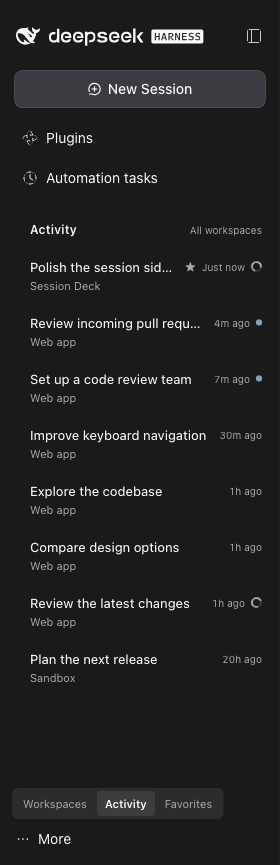
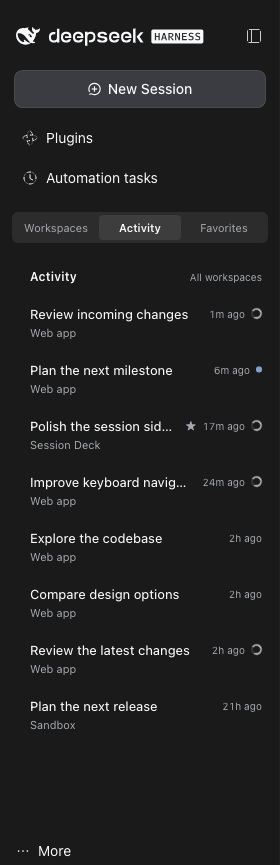
fix: place session navigation above workspaces without host patches

diff --git a/lib/client.js b/lib/client.js
@@ -2,7 +2,8 @@
 window.__ModuleLoader__.load({
   id: '@yiliang114/dsh-session-deck',
   factory: (require) => {
-    const { createElement: h, useEffect, useState, useSyncExternalStore } = require('react')
+    const { createElement: h, Fragment, useEffect, useLayoutEffect, useState, useSyncExternalStore } = require('react')
+    const { createPortal } = require('react-dom')
     const { Menu, MenuItemButton, Modal, Button, writeClipboard, IconEllipsisOutlineRegular, IconArchiveOutlineRegular } = require('@deepseek-ai/dsh-client-ui-primitives')
     const KEY = 'dsh-session-activity.mode.v1'
     const PENDING_KEY = 'dsh-session-activity.pending.v1'
@@ -137,6 +138,40 @@ window.__ModuleLoader__.load({
       if (minutes < 1440) return `${Math.floor(minutes / 60)}h ago`
       return `${Math.floor(minutes / 1440)}d ago`
     }
+    // Compatibility adapter for DSH 0.2.1-rc.2, NOT an official public slot.
+    // Only our container is inserted/removed; native and React-owned nodes stay put.
+    // Capture the anchor's own sidebar, never a document-wide first match.
+    function mountNavigationHost(anchor, onHost) {
+      const root = anchor?.closest('.hHd-Xa_root')
+      const shape = () => {
+        if (!root || anchor.closest('.hHd-Xa_root') !== root) return null
+        const children = [...root.children]
+        const regions = children.filter(node => node.classList.contains('hHd-Xa_regionArea'))
+        const footers = children.filter(node => node.classList.contains('hHd-Xa_footArea'))
+        return regions.length === 1 && footers.length === 1 && footers[0].contains(anchor) &&
+          children.indexOf(regions[0]) < children.indexOf(footers[0]) ? regions[0] : null
+      }
+      const Observer = anchor?.ownerDocument.defaultView?.MutationObserver
+      if (!shape() || !Observer) { onHost(null); return () => {} }
+      const host = anchor.ownerDocument.createElement('div')
+      host.className = 'dsa-navigation-host'
+      let active = true, published
+      const sync = () => {
+        if (!active) return
+        const region = shape()
+        if (region) {
+          if (host.parentNode !== root || host.nextSibling !== region) root.insertBefore(host, region)
+        } else host.remove()
+        const next = region ? host : null
+        if (published !== next) { published = next; onHost(next) }
+      }
+      // No subtree/body observation: portal rendering cannot trigger this observer.
+      // The adjacency guard makes our own insertion notification a no-op.
+      const observer = new Observer(sync)
+      observer.observe(root, { childList: true })
+      sync()
+      return () => { active = false; observer.disconnect(); host.remove() }
+    }
     const labels = { running: 'Running', waiting: 'Waiting for reply', pending: 'Unread', recent: 'Recent sessions' }
     const css = `
 .dsa-root{display:flex;flex-direction:column;flex:1;min-height:0;overflow:hidden;color:var(--dsw-alias-label-primary,inherit)}
@@ -167,8 +202,11 @@ window.__ModuleLoader__.load({
 .dsa-menu-trigger:hover{background:var(--dsw-alias-interactive-bg-hover,#8883);color:var(--dsw-alias-label-primary,inherit)}
 .dsa-menu-trigger:disabled{cursor:wait}
 .dsa-row:focus-visible,.dsa-menu-trigger:focus-visible,.dsa-switch button:focus-visible{outline:2px solid var(--dsw-alias-label-secondary,#aaa);outline-offset:-2px}
-.dsa-switch{display:flex;gap:2px;padding:3px;border-radius:8px;background:var(--dsw-alias-interactive-bg-hover,#8881);flex-shrink:0}
-.dsa-switch button{flex:1;border:0;border-radius:5px;padding:6px 8px;background:transparent;color:var(--dsw-alias-label-tertiary,#888);font:inherit;font-size:11px;cursor:pointer;white-space:nowrap}
+.dsa-navigation-host{flex-shrink:0;padding:8px 0}
+.dsa-switch{display:flex;gap:2px;padding:3px;border-radius:8px;background:var(--dsw-alias-interactive-bg-hover,#8881);flex-shrink:0;min-width:0}
+.dsa-switch button{flex:1;min-width:0;overflow:hidden;text-overflow:ellipsis;border:0;border-radius:5px;padding:6px 6px;background:transparent;color:var(--dsw-alias-label-tertiary,#888);font:inherit;font-size:11px;cursor:pointer;white-space:nowrap}
+.dsa-switch[data-compact=true]{flex-direction:column}
+.dsa-switch[data-compact=true] button{padding:6px 0}
 .dsa-switch button[aria-pressed=true]{background:var(--dsw-alias-interactive-bg-hover,#8882);color:var(--dsw-alias-label-primary,inherit);font-weight:600}
 .dsa-empty{margin:22px 12px;font-size:12px;line-height:1.8;color:var(--dsw-alias-label-tertiary,#888)}
 .dsa-rename{box-sizing:border-box;width:100%;font:inherit;padding:8px;border-radius:6px;border:1px solid var(--dsw-alias-label-tertiary,#777);background:transparent;color:inherit}
@@ -184,17 +222,29 @@ window.__ModuleLoader__.load({
       const style = document.createElement('style')
       style.id = 'yiliang114-dsh-session-deck-style'
       style.textContent = css
-      document.getElementById(style.id)?.remove()
-      document.head.appendChild(style)
       const onStorage = event => { if (event.key === PENDING_KEY) pending.sync(); if (event.key === KEY || event.key === null) { let value; try { value = storage?.getItem(KEY) } catch {} mode.set(value, false) } }
-      window.addEventListener('storage', onStorage)
-      ctx.on('dispose', () => { style.remove(); window.removeEventListener('storage', onStorage) })
+      ctx.effect(() => {
+        document.getElementById(style.id)?.remove()
+        document.head.appendChild(style)
+        window.addEventListener('storage', onStorage)
+        return () => { style.remove(); window.removeEventListener('storage', onStorage) }
+      })
       function Switch({ wide, useSessions, useSessionStatus }) {
         const list = useSessions(identity), statuses = useSessionStatus(identity)
         useEffect(() => pending.observe(list, statuses), [list, statuses])
         const selected = useSyncExternalStore(mode.subscribe, mode.getSnapshot)
-        return h('div', { className: 'dsa-switch', role: 'group', 'aria-label': 'Session navigation view', style: wide ? undefined : { flexDirection: 'column' } },
-          ...[['workspace', 'Workspaces'], ['activity', 'Activity'], ['favorites', 'Favorites']].map(([value, label]) => h('button', { key: value, type: 'button', 'aria-pressed': selected === value, onClick: () => mode.set(value) }, label)))
+        return h('div', { className: 'dsa-switch', role: 'group', 'aria-label': 'Session navigation view', 'data-compact': !wide },
+          ...[['workspace', 'Workspaces', 'W'], ['activity', 'Activity', 'A'], ['favorites', 'Favorites', '★']].map(([value, label, compact]) => h('button', { key: value, type: 'button', title: label, 'aria-label': label, 'aria-pressed': selected === value, onClick: () => mode.set(value) }, wide ? label : compact)))
+      }
+      function FooterNavigation(props) {
+        const [anchor, setAnchor] = useState(null)
+        const [host, setHost] = useState(null)
+        useLayoutEffect(() => mountNavigationHost(anchor, setHost), [anchor])
+        // The hidden callback ref stays in the registered footer's React tree.
+        // A portal retains slot/React context and all injected props. Unknown DOM
+        // shapes render inline in that footer instead of guessing a destination.
+        return h(Fragment, null, h('span', { hidden: true, ref: setAnchor }),
+          host ? createPortal(h(Switch, props), host) : h(Switch, props))
       }
       function Activity({ wide, expandSidebar, useSessions, useSessionStatus, useWorkspaces }) {
         const list = useSessions(identity)
@@ -300,7 +350,7 @@ window.__ModuleLoader__.load({
           unregister = ctx.slots.register({ name, id: '@yiliang114/dsh-session-deck.switch', order: 0, label: 'Session view' },
             name === 'sidebar.workspaces.before' ? function NavigationSwitch(props) {
               return h('div', { style: { flexShrink: 0, padding: props.wide ? '8px 12px' : '8px 4px' } }, h(Switch, props))
-            } : Switch)
+            } : FooterNavigation)
         }
         sync()
         const unsubscribe = ctx.slots.subscribe('sidebar.workspaces.before', sync)
@@ -317,6 +367,6 @@ window.__ModuleLoader__.load({
         return () => { unsubscribe(); unregister?.() }
       })
     }
-    return { inject: ['slots', 'uiWorkspace', 'sessions'], apply, __test__: { selectActivity, createModeStore, createPendingStore, ago, KEY, PENDING_KEY, MAX_RECORDS } }
+    return { inject: ['slots', 'uiWorkspace', 'sessions'], apply, __test__: { mountNavigationHost, selectActivity, createModeStore, createPendingStore, ago, KEY, PENDING_KEY, MAX_RECORDS } }
   },
 })

diff --git a/README.md b/README.md
@@ -23,7 +23,7 @@ Switching views keeps your current conversation open. Session rows show the titl
 | Follow active work and unread results. | Return to native pinned sessions. | Keep the complete workspace controls. |
 | ![English Activity view](docs/images/activity.png) | ![English Favorites view](docs/images/favorites.png) | ![English native Workspaces view](docs/images/workspaces.png) |
 
-Screenshots show the unmodified DSH sidebar, with the view switcher at the bottom. Browser menus, tabs, and the address bar are excluded.
+Screenshots show the switcher above the workspace region without host patches, below global panels. The interface and anonymized session titles are English; browser menus, tabs, and the address bar are excluded.
 
 ## Install locally
 
@@ -48,7 +48,7 @@ You can also install through **Plugins → Add plugin → Install a third-party 
 
 The plugin's own labels are English. To make the rest of DSH English too, use **More → Settings → General → Language → English**. Session titles remain in the language you wrote them.
 
-Refresh your existing DSH GUI, then choose **Workspaces / Activity / Favorites** in the sidebar. On an unmodified DSH installation, the switcher appears at the bottom; the [optional sidebar patch](#optional-place-the-switcher-above-the-list) moves it above the list. Refresh after client changes too; hot reload is not assumed.
+Refresh your existing DSH GUI, then choose **Workspaces / Activity / Favorites** above the workspace region, below global panels. On the supported DSH 0.2.1-rc.2 layout, the plugin places the switcher there automatically without patching installed DSH files. The native workspace browser remains available in Workspaces. Refresh after client changes too; hot reload is not assumed.
 
 If you installed an earlier local version of this plugin, disable and remove it in DSH's plugin manager first to avoid two instances controlling the sidebar. You can keep its browser storage.
 
@@ -67,7 +67,7 @@ Copy the generated archive to the target machine, then install using its absolut
 dsh plugin --profile web add /absolute/path/yiliang114-dsh-session-deck-0.1.0.tgz --ignore-scripts
 ```
 
-Refresh the GUI. A tarball installation does not depend on the original checkout and does not apply the optional host patch automatically.
+Refresh the GUI. A tarball installation does not depend on the original checkout. Both linked and tarball installations place the switcher above the workspace region automatically on the supported rc.2 layout; neither needs a host patch.
 
 ### Future npm and market availability
 
@@ -98,36 +98,29 @@ Maintainers: see the [release guide](https://github.com/yiliang114/dsh-session-d
 
 ## DSH compatibility and switcher position
 
-Version compatibility and switcher placement are separate checks. This plugin declares an exact `engines.dsh` match of **0.2.1-rc.2**; a bottom-position switcher on that version does not indicate an outdated plugin or a version mismatch.
+This plugin declares an exact `engines.dsh` match of **0.2.1-rc.2**. Automatic top placement uses a DOM compatibility adapter for that release, not an official DSH extension API.
 
-| DSH sidebar | `sidebar.workspaces.before` | Session Deck support |
+| DSH sidebar | Placement mechanism | Session Deck support |
 | --- | --- | --- |
-| Official **0.2.1-rc.2** | Absent; the switcher falls back to the footer. | Verified in the real GUI. |
-| **0.2.1-rc.2** with the local patch below | Added after global panels, including Automation tasks. | Accepted by the version-checked patch script. |
-| Official **0.2.1-rc.3** | Still absent in its published client and slot contract. | Full plugin compatibility is unverified; excluded by the current engine declaration. |
+| Official **0.2.1-rc.2**, without patches | No official `sidebar.workspaces.before` slot; the adapter places the switcher above the workspace region by default. | Supported target, with a precise rc.2 DOM structure guard. |
+| **0.2.1-rc.2** with the legacy local patch | Reuses the existing `sidebar.workspaces.before` slot below global panels. | Compatible; the patch is no longer needed. |
+| Official **0.2.1-rc.3** | The published client and slot contract still lack the before-slot. | Not supported: full compatibility is unverified and the exact engine declaration excludes it. |
 
-The rc.3 published files were inspected on **2026-10-23**. Upgrading to rc.3 alone does not provide the missing slot. The patch is a local modification to DSH, not an official update or a step automatically performed by plugin installation. Supporting another host version requires validating its session, workspace, slot, and UI APIs before widening `engines.dsh` or the patch script's version guard.
+On the recognized rc.2 layout, the adapter renders a React portal into its own DOM host immediately before the workspace region, below global panels such as Automation tasks. It does not write installed DSH files or replace the native workspace browser. An unknown DOM layout falls back to the footer. Disabling the plugin removes its scoped observer and DOM host.
 
-## Optional: place the switcher above the list
+The rc.3 published files were inspected on **2026-10-23**; that inspection does not establish plugin compatibility. Supporting another host version requires validating its session, workspace, slot, and UI APIs and DOM layout before widening `engines.dsh`.
 
-DSH 0.2.1-rc.2 does not expose an official slot at this position. The [sidebar patch script](scripts/patch-sidebar-before.mjs) adds a local `sidebar.workspaces.before` slot after the global panel entries and before the workspace area. **The plugin works without this patch**, using the bottom position as its fallback.
+## Legacy sidebar patch rollback
+
+The [sidebar patch script](scripts/patch-sidebar-before.mjs) is retained for rollback and backward compatibility. New installations do not need it. If you previously installed its local before-slot patch, the plugin can reuse that slot, or you can restore the original sidebar.
 
 Locate the `@deepseek-ai/dsh-client-ui-sidebar` package actually used by your running DSH. From this repository, replace the placeholder with that package's directory, not the DSH root or this plugin directory:
-
-```sh
-node scripts/patch-sidebar-before.mjs /path/to/dsh-client-ui-sidebar
-node --check /path/to/dsh-client-ui-sidebar/lib/client.js
-```
-
-The script accepts only **0.2.1-rc.2**, checks both target files before writing, and saves adjacent `.dsa-before.backup` files. It is safe to rerun and rejects unexpected code. Refresh the GUI after applying it.
-
-To restore the original sidebar:
 
 ```sh
 node scripts/patch-sidebar-before.mjs /path/to/dsh-client-ui-sidebar --rollback
 ```
 
-Rollback needs the original backups and refuses to overwrite unrelated changes. Refresh again to return to the bottom position. DSH reinstalls or upgrades may replace the patch; check compatibility before reapplying it. If you modify a DSH source checkout, rebuild the affected client artifacts as well.
+Rollback requires the original adjacent `.dsa-before.backup` files and refuses to overwrite unrelated changes. Refresh the GUI after rollback: the new plugin still places the switcher above the workspace region on the supported unpatched rc.2 layout. If rolling back a DSH source checkout, rebuild the affected client artifacts as well.
 
 ## Privacy and local storage
 
@@ -142,7 +135,7 @@ Browser `localStorage` retains the original keys for compatibility:
 
 No conversation bodies are stored by the plugin. Favorites remain in DSH's native pinned data. View and unread state sync between tabs on the same origin, not across devices. If storage is unavailable, state stays in memory. Clearing browser storage resets this metadata; processed records are capped at 1,000, while running and unread records are retained.
 
-Disable or remove **`@yiliang114/dsh-session-deck`** in DSH's plugin manager to stop using it. Removal does not clear browser storage or undo the optional host patch; use the rollback command separately.
+Disable or remove **`@yiliang114/dsh-session-deck`** in DSH's plugin manager to stop using it. Disabling removes the adapter's observer and DOM host and restores the native workspace browser. Removal does not clear browser storage or undo a legacy host patch; use the rollback command separately if needed.
 
 ## Development
 

diff --git a/README.zh-CN.md b/README.zh-CN.md
@@ -23,7 +23,7 @@
 | 掌握运行状态和未读结果。 | 回到原生置顶的重要会话。 | 保留完整的工作区操作。 |
 | ![英文 Activity 视图](docs/images/activity.png) | ![英文 Favorites 视图](docs/images/favorites.png) | ![英文原生 Workspaces 视图](docs/images/workspaces.png) |
 
-截图使用未打补丁的 DSH 侧栏，视图切换条位于底部；不包含浏览器顶部菜单、标签栏和地址栏。
+截图展示无需宿主补丁、自动位于全局面板下方和工作区区域上方的切换条。界面及匿名化后的会话标题使用英文；不包含浏览器顶部菜单、标签栏和地址栏。
 
 ## 本地安装
 
@@ -48,7 +48,7 @@ dsh plugin --profile web add "link:$PWD" --offline --ignore-scripts
 
 插件自身文案使用英文。要让 DSH 其他界面也显示英文，在 **更多 → 设置 → 通用设置 → 语言** 中选择 **English**。会话标题仍保留用户原来使用的语言。
 
-刷新现有 DSH GUI，然后在侧栏选择 **Workspaces / Activity / Favorites**。原版 DSH 的切换条位于底部；[可选侧栏补丁](#可选将切换条放到列表上方)可将它移到列表上方。修改客户端后也需要刷新，不应假定热更新已启用。
+刷新现有 DSH GUI，然后在全局面板下方、工作区区域上方选择 **Workspaces / Activity / Favorites**。在支持的 DSH 0.2.1-rc.2 布局中，插件会自动将切换条放到该位置，无需修改已安装的 DSH 文件。Workspaces 保留原生工作区浏览器。修改客户端后也需要刷新，不应假定热更新已启用。
 
 如果已安装本插件的早期本地版本，请先在 DSH 插件管理中停用并移除旧实例，避免同时接管侧栏；浏览器存储可以保留。
 
@@ -67,7 +67,7 @@ npm pack --ignore-scripts
 dsh plugin --profile web add /absolute/path/yiliang114-dsh-session-deck-0.1.0.tgz --ignore-scripts
 ```
 
-安装后刷新 GUI。tarball 安装不依赖原仓库目录持续存在，也不会自动应用宿主补丁。
+安装后刷新 GUI。tarball 安装不依赖原仓库目录持续存在。链接和 tarball 两种安装方式都会在支持的 rc.2 布局中自动将切换条放到工作区区域上方，无需宿主补丁。
 
 ### 后续 npm 安装与市场发现
 
@@ -98,36 +98,29 @@ https://raw.githubusercontent.com/yiliang114/dsh-session-deck/main/market-index.
 
 ## DSH 兼容性与切换条位置
 
-版本匹配和切换条位置是两个独立检查项。插件的 `engines.dsh` 精确声明支持 **0.2.1-rc.2**；这个版本上切换条位于底部，不表示插件过旧或版本不匹配。
+插件的 `engines.dsh` 精确声明支持 **0.2.1-rc.2**。自动顶部定位使用针对该版本的 DOM 兼容适配层，并非 DSH 官方扩展 API。
 
-| DSH 侧栏 | `sidebar.workspaces.before` | Session Deck 支持情况 |
+| DSH 侧栏 | 定位方式 | Session Deck 支持情况 |
 | --- | --- | --- |
-| 官方 **0.2.1-rc.2** | 不存在，切换条回退到底部。 | 已在真实 GUI 验证。 |
-| **0.2.1-rc.2** 加下述本地补丁 | 增加在全局面板入口（包括 Automation tasks）下方。 | 补丁脚本接受此版本并检查目标代码。 |
-| 官方 **0.2.1-rc.3** | 已发布的客户端及槽位声明中仍不存在。 | 插件整体兼容性尚未验证，当前版本声明不包含它。 |
+| 官方 **0.2.1-rc.2**，未打补丁 | 没有官方 `sidebar.workspaces.before` 槽位；适配层默认将切换条放到工作区区域上方。 | 当前支持目标，严格检查 rc.2 DOM 结构。 |
+| **0.2.1-rc.2** 加旧版本地补丁 | 复用全局面板下方已有的 `sidebar.workspaces.before` 槽位。 | 兼容，但已不再需要补丁。 |
+| 官方 **0.2.1-rc.3** | 已发布的客户端及槽位声明中仍没有 before 槽位。 | 不支持：整体兼容性未经验证，精确版本声明不包含它。 |
 
-以上 rc.3 发布文件检查于 **2026-10-23**。仅升级到 rc.3 不会补上这个槽位。补丁修改的是本地 DSH，并非官方更新，也不会随插件安装自动执行。支持其他宿主版本时，需要先验证会话、工作区、槽位和 UI 接口，再扩大 `engines.dsh` 或补丁脚本允许的版本范围。
+识别到 rc.2 布局时，适配层在工作区区域紧前方、Automation tasks 等全局面板下方插入自己的 DOM 容器，通过 React portal 渲染切换条。它不会写入已安装的 DSH 文件，也不会替换原生工作区浏览器。遇到未知 DOM 布局时回退到底部。停用插件会移除其限定范围的观察器和 DOM 容器。
 
-## 可选：将切换条放到列表上方
+rc.3 发布文件检查于 **2026-10-23**，该检查不能证明插件兼容。支持其他宿主版本时，需要先验证会话、工作区、槽位、UI 接口及 DOM 布局，再扩大 `engines.dsh` 的版本范围。
 
-DSH 0.2.1-rc.2 尚未在此处提供官方扩展槽位。[侧栏补丁脚本](scripts/patch-sidebar-before.mjs)会在全局面板入口之后、工作区区域之前增加本地 `sidebar.workspaces.before` 槽位。**不打补丁也可正常使用插件**，切换条自动回退到底部。
+## 旧版侧栏补丁回滚
+
+[侧栏补丁脚本](scripts/patch-sidebar-before.mjs)保留用于回滚和向后兼容，新安装无需执行。如果之前安装过本地 before 槽位补丁，插件可以继续复用该槽位，也可以恢复原侧栏。
 
 找到当前运行的 DSH 实际加载的 `@deepseek-ai/dsh-client-ui-sidebar` 包目录，在本仓库中执行以下命令。占位路径应替换为该侧栏包目录，而非 DSH 根目录或本插件目录：
-
-```sh
-node scripts/patch-sidebar-before.mjs /path/to/dsh-client-ui-sidebar
-node --check /path/to/dsh-client-ui-sidebar/lib/client.js
-```
-
-脚本仅接受 **0.2.1-rc.2**，写入前检查两个目标文件，并保存相邻的 `.dsa-before.backup` 备份。支持重复执行，遇到不匹配的代码会拒绝修改。应用后刷新 GUI。
-
-恢复原侧栏：
 
 ```sh
 node scripts/patch-sidebar-before.mjs /path/to/dsh-client-ui-sidebar --rollback
 ```
 
-恢复依赖原始备份，并会拒绝覆盖无关改动。刷新后切换条回到底部。DSH 重装或升级可能覆盖补丁，重新应用前请检查兼容性。如果修改的是 DSH 源码仓库，还需重新构建相关客户端产物。
+恢复依赖原始的相邻 `.dsa-before.backup` 备份，并会拒绝覆盖无关改动。回滚后刷新 GUI：在支持的未打补丁 rc.2 布局中，新插件仍会将切换条放到工作区区域上方。如果回滚的是 DSH 源码仓库，还需重新构建相关客户端产物。
 
 ## 隐私与本地存储
 
@@ -142,7 +135,7 @@ node scripts/patch-sidebar-before.mjs /path/to/dsh-client-ui-sidebar --rollback
 
 插件不在其中保存会话正文。收藏仍使用 DSH 原生置顶数据。视图和未读状态在同源标签页间同步，不跨设备同步；存储不可用时仅保留在内存中。清除浏览器存储会重置这些元数据。已处理记录最多保留 1,000 条，运行中和未读记录不受此清理上限影响。
 
-停用时，在 DSH 插件管理中禁用或移除 **`@yiliang114/dsh-session-deck`**。移除不会清除浏览器存储，也不会撤销宿主补丁，后者请单独执行恢复命令。
+停用时，在 DSH 插件管理中禁用或移除 **`@yiliang114/dsh-session-deck`**。停用会移除适配层的观察器和 DOM 容器，并恢复原生工作区浏览器。移除不会清除浏览器存储，也不会撤销旧版宿主补丁；如需撤销，请单独执行恢复命令。
 
 ## 开发
 

diff --git a/docs/releasing.md b/docs/releasing.md
@@ -15,9 +15,20 @@ npm run verify
 npm pack --ignore-scripts
 ```
 
-`verify` runs JavaScript syntax checks, Node.js tests, and a dry-run package-content check. The repository has no npm dependencies and does not need `npm install`. The tarball includes the host entry, client bundle, Cordis configuration, English and Chinese READMEs, license, and optional sidebar patch script. Repository screenshots and this release guide are not included in the current package allowlist.
+`verify` runs JavaScript syntax checks, Node.js tests, and a dry-run package-content check. The repository has no npm dependencies and does not need `npm install`. The tarball includes the host entry, client bundle, Cordis configuration, English and Chinese READMEs, license, and legacy sidebar patch script retained for rollback and backward compatibility. Repository screenshots and this release guide are not included in the current package allowlist.
 
-Test installation and the three views in the real DSH 0.2.1-rc.2 GUI. Check native pins, waiting/running/unread behavior, nested known subagents, and the unpatched bottom-position fallback. Automated checks alone do not establish host compatibility. Capture screenshots from the actual English interface and avoid exposing private session content.
+Before shipping, verify the following in the real DSH **0.2.1-rc.2** GUI:
+
+- Test both linked and tarball installations without a host patch. Confirm that the switcher appears immediately above the workspace region, below global panels, and that installed DSH files remain unchanged.
+- Exercise all three views, native pins, waiting/running/unread behavior, and nested known subagents. Confirm that Workspaces preserves the native workspace browser and its controls.
+- Collapse and expand the sidebar, checking that the switcher remains usable and correctly positioned.
+- Disable the plugin and confirm that its scoped observer and DOM host are removed and the native workspace browser is restored. Re-enable it and check that only one switcher appears.
+- Exercise an unknown DOM layout and confirm that the adapter safely falls back to the footer.
+- Check compatibility with an existing legacy `sidebar.workspaces.before` slot. If testing rollback, use the original backups and do not overwrite unrelated changes; after rollback and refresh, confirm that the new plugin stays above the workspace region on unpatched rc.2.
+
+Automatic placement is a guarded DOM compatibility adapter using a React portal, not an official DSH API. Keep `engines.dsh` pinned to **0.2.1-rc.2**; rc.3 compatibility is unverified and unsupported. Automated checks alone do not establish host compatibility, and this checklist does not record completed verification.
+
+Recapture the README screenshots from the actual English interface on unpatched rc.2, showing automatic top placement. Use English, anonymized session titles and workspace names, omit browser chrome, and keep the existing filenames: [Activity](images/activity.png), [Favorites](images/favorites.png), and [Workspaces](images/workspaces.png).
 
 ## Bootstrap the npm package
 
